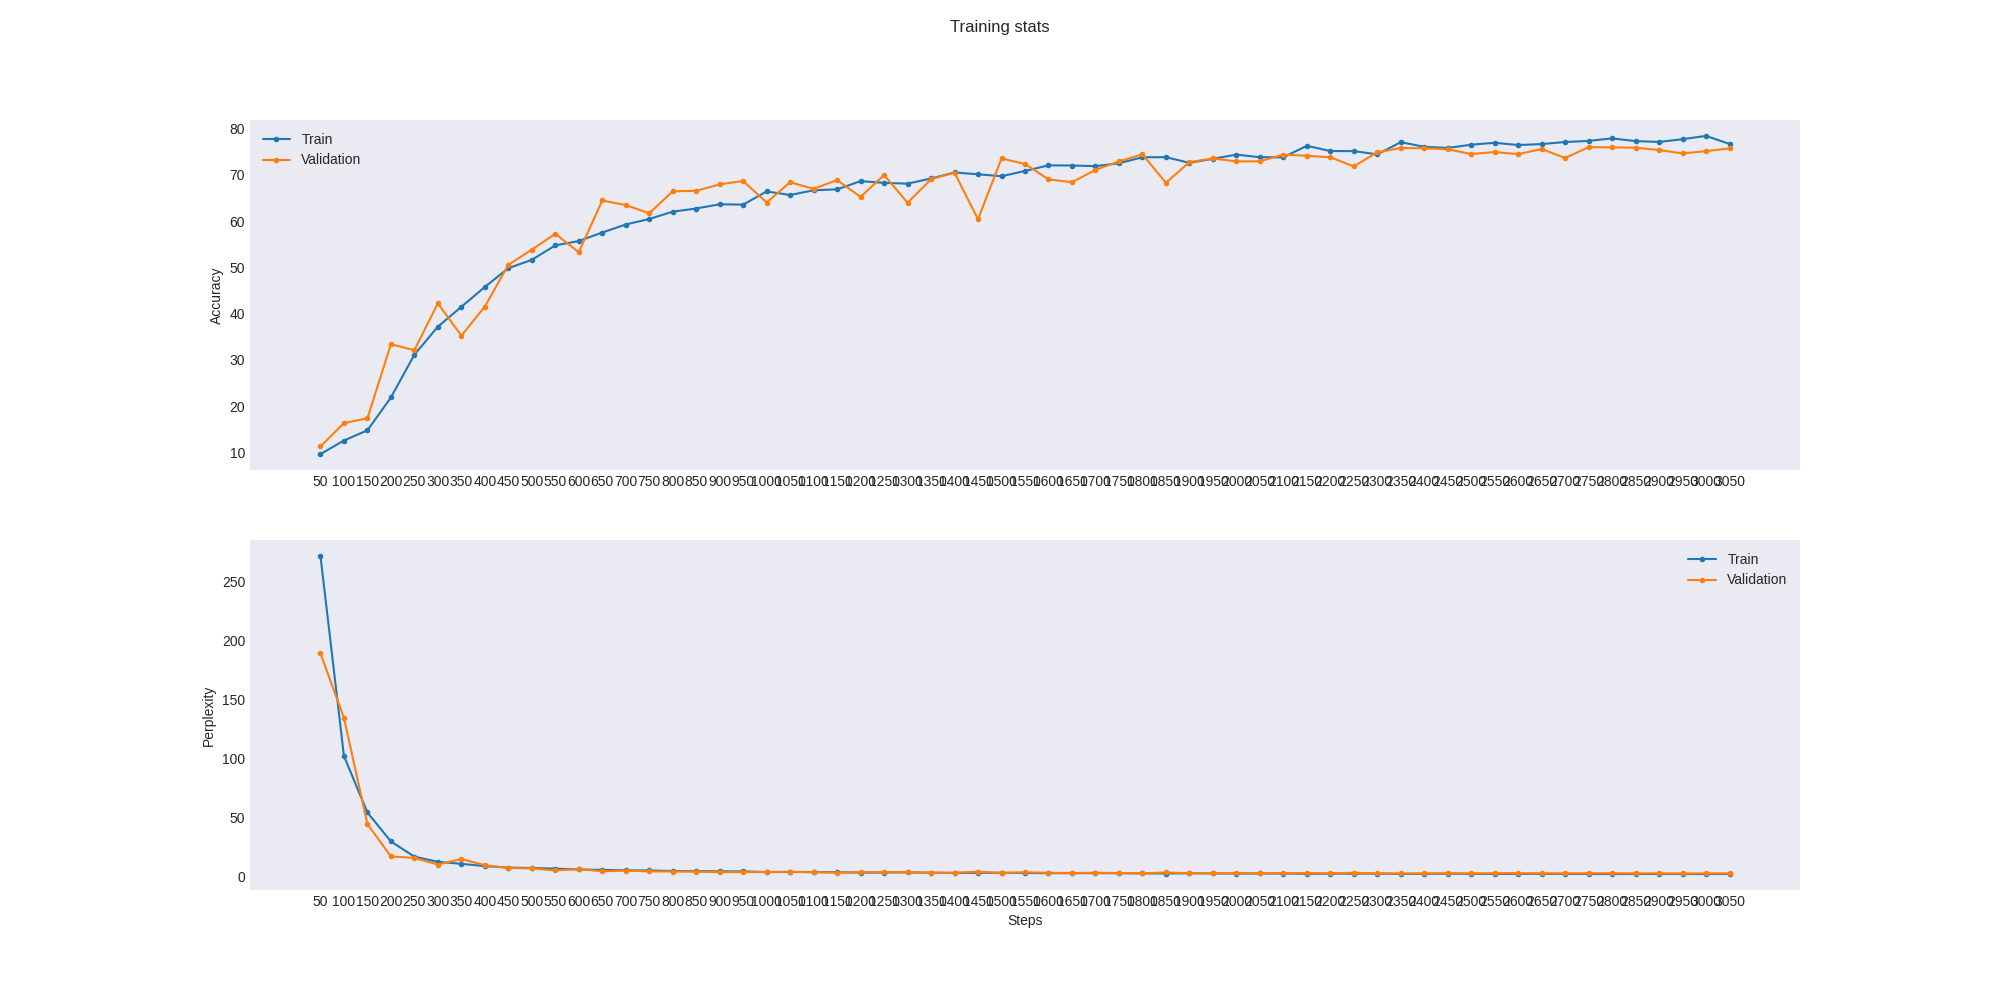
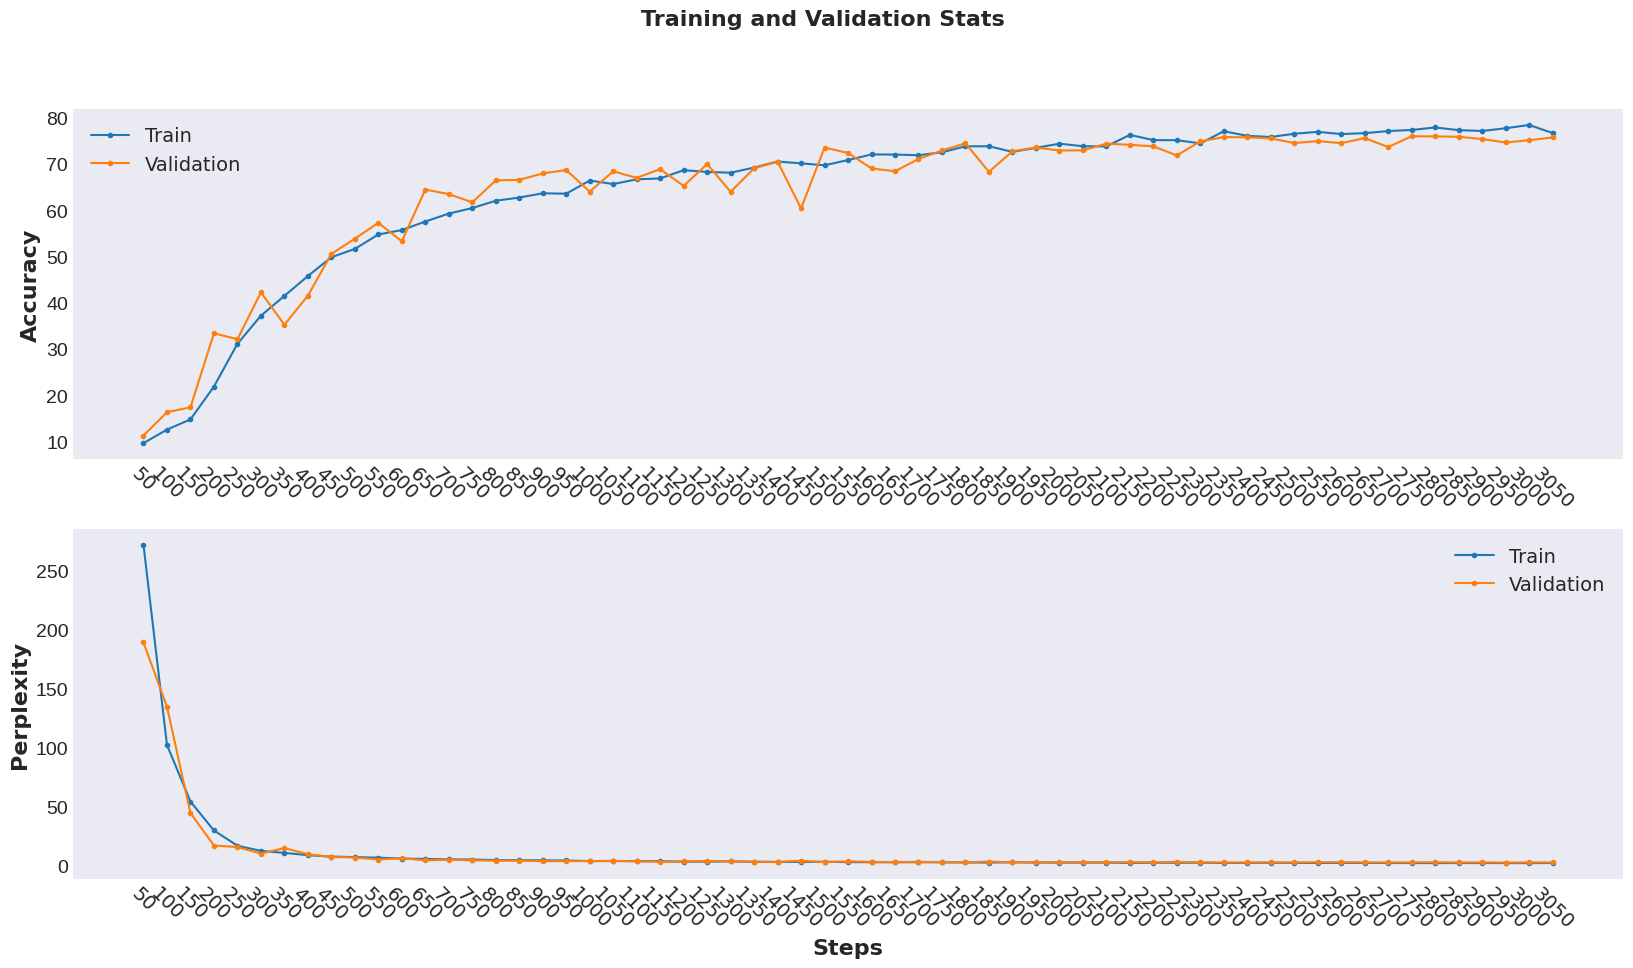
plots text size update; transformer model

diff --git a/utils/commands/train.py b/utils/commands/train.py
@@ -8,7 +8,7 @@ from utils.plots import Plotter
 
 
 class Train(Command):
-    def __init__(self, gpu: bool = False, plot: bool = False, skip: bool = False, **kwargs):
+    def __init__(self, gpu: bool = False, plot: bool = False, skip: bool = False, transformer: bool = False, **kwargs):
         super().__init__(**kwargs)
         if gpu:
             self.configs.onmt_args.train['gpu_ranks'] = 0
@@ -17,6 +17,7 @@ class Train(Command):
         self.out_file = Path(self.out_path / Path(f"train.final.{self.seed}.out"))
         self.plot = plot
         self.skip = skip
+        self.transformer = transformer
 
     def __call__(self, **kwargs):
         if not self.skip:
@@ -27,6 +28,14 @@ class Train(Command):
                 exit(1)
 
             self.configs.onmt_args.train['seed'] = self.seed
+            model = self.configs.onmt_args.train['model']['lstm']
+
+            if self.transformer:
+                model = self.configs.onmt_args.train['model']['transformer']
+            # TODO: FIX this
+            del self.configs.onmt_args.train['model']
+            self.configs.onmt_args.train.update(model)
+
             mutable_args = self.configs.onmt_args.unpack(name='train', string=True)
             cmd_str = f"onmt_train -data {self.in_path / Path('final')} {mutable_args} " \
                       f"-save_model {self.out_path / Path('final-model')} 2>&1"
@@ -61,7 +70,7 @@ class Train(Command):
 
         plotter = Plotter(str(self.configs.root / Path('train_plots')))
         plotter.subplots(x_data=steps, y_data=[[accuracy, val_accuracy], [perplexity, val_perplexity]], x_label="Steps",
-                         fig_title='Training stats', y_labels=["Accuracy", "Perplexity"], legend=['Train', 'Validation'])
+                         fig_title='Training and Validation Stats', y_labels=["Accuracy", "Perplexity"], legend=['Train', 'Validation'])
 
     @staticmethod
     def definition() -> dict:
@@ -72,5 +81,6 @@ class Train(Command):
     @staticmethod
     def add_arguments(cmd_parser) -> NoReturn:
         cmd_parser.add_argument('--gpu', action='store_true', default=False, help='Enables GPU training.')
+        cmd_parser.add_argument('--transformer', action='store_true', default=False, help='Use the transformer model.')
         cmd_parser.add_argument('--plot', help='Plots stats about testing.', action="store_true", required=False)
         cmd_parser.add_argument('--skip', help='Skips training.', action="store_true", required=False)

diff --git a/utils/plots.py b/utils/plots.py
@@ -5,9 +5,21 @@ from pylab import *
 import numpy as np
 import pandas as pd
 from scipy import stats
+import matplotlib.font_manager as font_manager
 
 plt.style.use('seaborn-dark')
 
+medium_font = {'family': 'serif',
+              'name': 'Helvetica',
+              'size': 14}
+
+large_font = {'family': 'serif',
+              'name': 'Helvetica',
+              'weight': 'bold',
+              'size': 16}
+
+legend_font = font_manager.FontProperties(family=large_font["name"],
+                                          style="normal", size=14)
 
 def scatter(x: list, y: list, x_label: str, y_label: str):
     colors = np.random.rand(len(x))
@@ -78,17 +90,19 @@ class Plotter:
                  legend: List):
         nrows = len(y_data)
         fig, rows = plt.subplots(nrows, 1)
-        fig.suptitle(fig_title)
+        fig.suptitle(fig_title, **large_font)
         fig.set_size_inches(self.fig_size[0], self.fig_size[1], forward=True)
 
         for y, row, y_label in zip(y_data, rows, y_labels):
             for line in y:
                 row.plot(x_data, line, '.-')
-            row.set_ylabel(y_label)
-            row.legend(legend, loc='best')
-            # row.tick_params(labelrotation=20)
+            row.set_ylabel(y_label, **large_font)
+            #row.set_yticklabels(fontsize=14)
+            row.set_xticklabels(x_data,  rotation=-45, ha="center", **medium_font)
+            row.legend(legend, loc='best', prop=legend_font)
+            row.tick_params(labelsize=14)
 
-        rows[-1].set_xlabel(x_label)
+        rows[-1].set_xlabel(x_label, **large_font)
 
         self.file_name = "subplots"
         self.show()
@@ -110,7 +124,7 @@ class Plotter:
     def show(self):
         # Shows plot or saves it in the plots folder
         if self.save_path:
-            plt.savefig(f"{self.save_path / Path(self.file_name)}")
+            plt.savefig(f"{self.save_path / Path(self.file_name)}", bbox_inches='tight')
             plt.clf()
         else:
             plt.show()

diff --git a/utils/config.py b/utils/config.py
@@ -16,20 +16,47 @@ ONMT_ARGS = {'preprocess': {
         'share_vocab': True
     },
     'train': {
-        'encoder_type': 'brnn',
-        'enc_layers': 2,
-        'decoder_type': 'rnn',
-        'dec_layers': 2,
-        'rnn_size': 256,
-        'global_attention': 'general',
+        'model': {
+            'lstm': {
+                'encoder_type': 'brnn',
+                'enc_layers': 2,
+                'decoder_type': 'rnn',
+                'dec_layers': 2,
+                'rnn_size': 256,
+                'global_attention': 'general',
+                'bridge': True,
+                'copy_attn': True,
+                'reuse_copy_attn': True,
+            },
+            'transformer': {
+                'encoder_type': 'transformer',
+                'decoder_type': 'transformer',
+                'layers': 6,
+                'rnn_size': 256,
+                'transformer_ff': 2048,
+                'heads': 8,
+                'position_encoding': True,
+                'max_generator_batches': 2,
+                'dropout': 0.1,
+                'batch_type': 'tokens',
+                'normalization': 'tokens',
+                'accum_count': 2,
+                'optim': 'adam',
+                'adam_beta2': 0.998,
+                'decay_method': 'noam',
+                'learning_rate': 2,
+                'max_grad_norm': 0,
+                'param_init': 0,
+                'param_init_glorot': True,
+                'label_smoothing': 0.1,
+            }
+        },
         'batch_size': 32,
         'word_vec_size': 256,
-        'bridge': True,
-        'copy_attn': True,
-        'reuse_copy_attn': True,
         'train_steps': 2000,
         'valid_steps': 50,
         'early_stopping': 10,
+        'world_size': 1,
         'save_checkpoint_steps': 1000
     },
     'translate': {

diff --git a/utils/commands/preprocess.py b/utils/commands/preprocess.py
@@ -10,7 +10,7 @@ list_of_split_choices = ["train_val", "train_val_test"]
 
 class Preprocess(Command):
     def __init__(self, src_path: str = None, out_path: str = None, split: str = None, no_onmt: bool = False,
-                 no_truncation: bool = False, **kwargs):
+                 bpe: bool = False, no_truncation: bool = False, **kwargs):
         super().__init__(**kwargs)
         self.source = Path(src_path) if src_path else self.configs.data_paths.raw / Path('dataset.pkl')
         self.out = Path(out_path) if out_path else self.configs.data_paths.processed
@@ -20,6 +20,7 @@ class Preprocess(Command):
         self.no_onmt = no_onmt
         self.no_truncation = no_truncation
         self.out_file = Path(self.onmt_input_path / Path(f"preprocess.{self.seed}.out"))
+        self.bpe = bpe
 
     def __call__(self, **kwargs):
         if self.source.is_dir():
@@ -71,5 +72,7 @@ class Preprocess(Command):
                                 default=None)
         cmd_parser.add_argument('--no_onmt', action='store_true', default=False,
                                 help='Disables onmt pre-processing on the train and val sets.')
+        cmd_parser.add_argument('--bpe', action='store_true', default=False,
+                                help='Use Byte Pair Encoding for Subword Tokenization.')
         cmd_parser.add_argument('--no_truncation', action='store_true', default=False,
                                 help='Doesnt truncates the samples in the dataset.')
